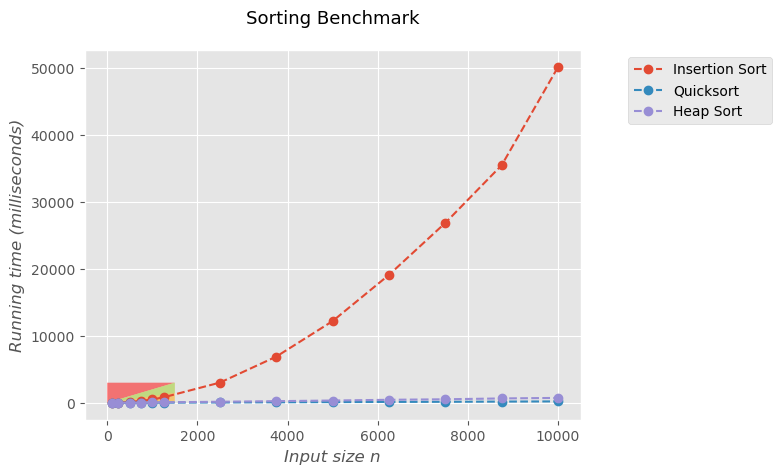
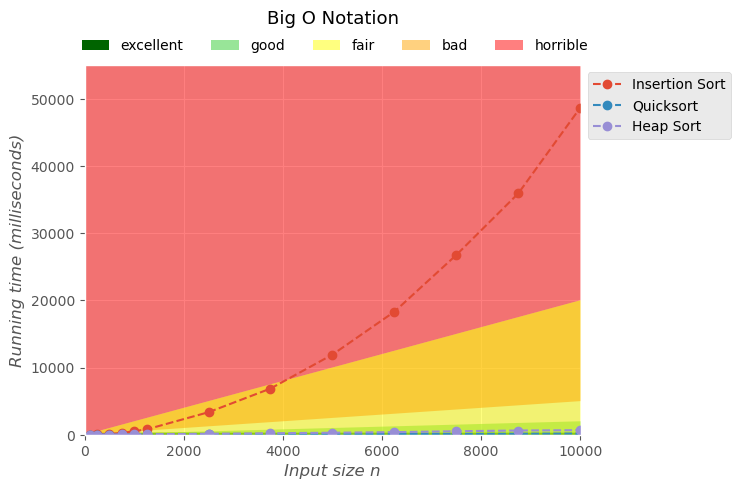
recycled code in outputs for report script. created a path in case the repository assets doesn't exist. Fixed fill between areas for big o chart.  split legend into two.

diff --git a/outputs_for_report.py b/outputs_for_report.py
@@ -3,49 +3,65 @@ PLOT AND EXCEL FOR THE REPORT
 """
 import matplotlib.pyplot as plt
 import numpy as np
+import os
 
 def plot(df):
-    # Save the dataframe as an excel file.
-    df.to_excel('benchmark_results.xlsx')
-
-    # Rearrange the dataframe.
-    df = df.T
-    
     # Plot and save the figure.
     plt.style.use('ggplot')
-    df.plot(linestyle='--', marker='o')
+
+    
+    # Rearrange the dataframe.
+    df = df.T
+
+    _, ax = plt.subplots()
+    df.plot(linestyle='--', marker='o', ax=ax)
+
+    # Set labels and a title.
     plt.xlabel('Input size n', fontstyle='italic')
     plt.ylabel('Running time (milliseconds)', fontstyle='italic')
     plt.title('Sorting Benchmark', y=1.05, fontsize=13)
-    plt.legend(bbox_to_anchor=(1, 1), loc='best')
-    plt.savefig('assets/benchmark_plot.png', bbox_inches="tight")
+
+    # Move legend outside the plot.
+    leg = plt.legend(bbox_to_anchor=(1, 1), loc='best')
+
+    # Save the plot.
+    plt.savefig('assets/benchmark_plot.png', bbox_inches='tight')
+    return leg, ax
 
 
 def big_o_chart_and_excel(df):
+    # Create a new directory 'assets'
+    # if it doesn't exist.
+    if not os.path.isdir('assets'):
+        os.mkdir('assets')
+
     # Save the dataframe as an excel file.
     df.to_excel('assets/benchmark_results.xlsx')
 
-    # Rearrange the dataframe.
-    df = df.T
-    
-    # Plot and save the figure.
-    plt.style.use('ggplot')
-    df.plot(linestyle='--', marker='o')
+    # Plot the benchmarks.
+    leg, ax = plot(df)
 
-    # Fill the space in between 
+    # Fill the space with colour for Big O.
     # Adapted from https://www.statology.org/matplotlib-fill-between/
-    x = np.arange(1500)
+    x = np.arange(100100)
     y = x * 2
+    excellent = ax.fill_between(x, np.ones(x.shape)+300, facecolor='darkgreen', label='excellent',interpolate=True)
+    good = ax.fill_between(x, x*0.2, facecolor='limegreen', label='good', interpolate=True,  alpha=0.5)
+    fair = ax.fill_between(x, y, facecolor='yellow',label='fair', interpolate=True,  alpha=0.5)
+    bad = ax.fill_between(x, y, x/2, facecolor='orange',label='bad', interpolate=True,  alpha=0.5)
+    horrible = ax.fill_between(x, y, np.max(y)+35000, facecolor='red', label='horrible', interpolate=True,  alpha=0.5)
+    
+    # Limit the axis.
+    plt.xlim(0, 10100)
+    plt.ylim(0, 55000)
 
-    plt.fill_between(x, y, np.max(y), facecolor='red', interpolate=True,  alpha=0.5)
-    plt.fill_between(x, y, np.ones(x.shape)+30, facecolor='orange', interpolate=True,  alpha=0.5)
-    plt.fill_between(x, np.ones(x.shape)+30, facecolor='darkgreen', interpolate=True,  alpha=0.5)
-    plt.fill_between(x, x-20, y, facecolor='lightgreen', interpolate=True,  alpha=0.5)
+    # Split the legend into two.
+    # https://matplotlib.org/2.0.2/users/legend_guide.html
+    
+    ax.add_artist(leg)
+    plt.legend(handles=[excellent, good, fair, bad, horrible], ncol=5, bbox_to_anchor=(1.04, 1), loc=4, frameon=False)
+    plt.title('Big O Notation', y=1.09, fontsize=13)
 
-
-    plt.xlabel('Input size n', fontstyle='italic')
-    plt.ylabel('Running time (milliseconds)', fontstyle='italic')
-    plt.title('Sorting Benchmark', y=1.05, fontsize=13)
-    plt.legend(bbox_to_anchor=(1.4, 1), loc='best')
+    # Save the plot and close.
     plt.savefig('assets/big_o_notation_plot.png', bbox_inches="tight")
     plt.close()

diff --git a/benchmark.py b/benchmark.py
@@ -10,7 +10,7 @@ from time import time
 import numpy as np
 import pandas as pd
 from sorting_algorithms import insertion_sort, quicksort, heap_sort
-from outputs_for_report import plot, big_o_chart_and_excel
+from outputs_for_report import big_o_chart_and_excel
 
 
 
@@ -59,7 +59,7 @@ def benchmark_runner(input_sizes):
     """ Creating a list of benchmark results """
     
     # A list of algorithms.
-    sorting_algorithms = [insertion_sort, quicksort, heap_sort]#, radix_sort, counting_sort, introsort]
+    sorting_algorithms = [insertion_sort, quicksort, heap_sort]#, counting_sort, introsort]
     benchmarks = []
 
     # Run benchmark for each sorting algorithm.
@@ -86,12 +86,10 @@ def results_as_dataframe(input_sizes, benchmarks):
 
 # Driver code to test above.
 if __name__ == '__main__':
-    input_sizes = [100, 250, 500, 750, 1000,
-                   1250, 2500, 3750, 5000, 6250, 7500, 8750, 10000]
+    input_sizes = [100, 250, 500, 750, 1000, 1250, 2500, 3750, 5000, 6250, 7500, 8750, 10000]
 
     benchmarks = benchmark_runner(input_sizes)
     benchmark_results = results_as_dataframe(input_sizes, benchmarks)
-    plot(benchmark_results)
     big_o_chart_and_excel(benchmark_results)
 
     # Output benchmark results into the console.
